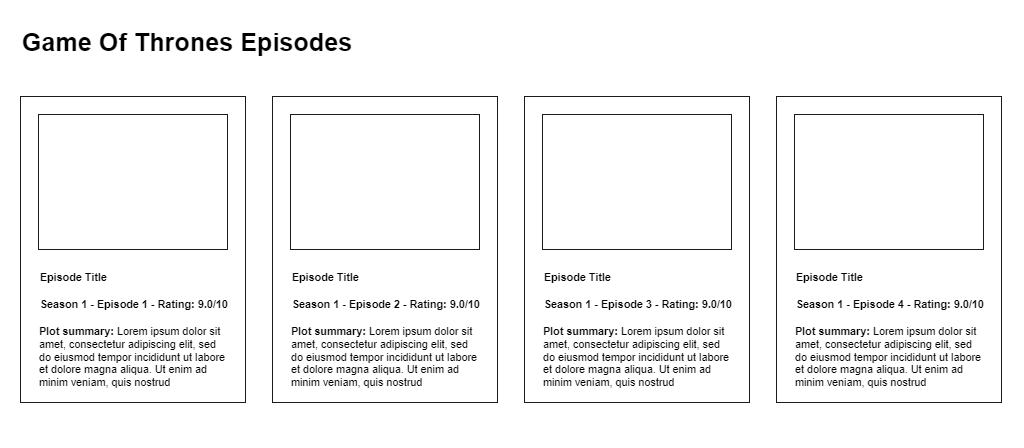
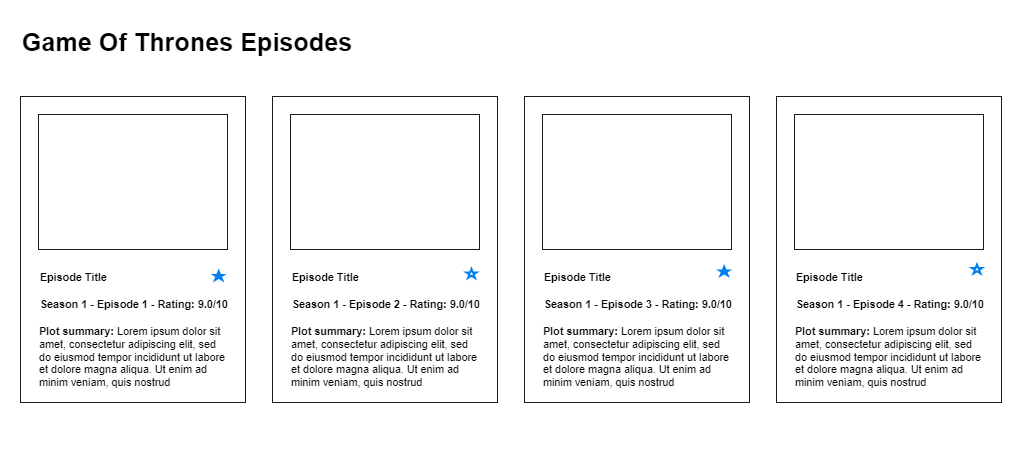
Updated the task to include local storage save of favourites

diff --git a/developer-omdb-task.md b/developer-omdb-task.md
@@ -4,6 +4,8 @@ We at CredoWeb are massive fans of the epic Game of Throne series. Your task (sh
 
 > ![mockup](wireframe-omdb.png)
 
+We'd like to point out this is not the actual design just a wireframe to illustrate the basic view we aim.
+
 Some help for the OMDb API:
 
 * Here you can [request](http://www.omdbapi.com/apikey.aspx) a free API key to the OMDb
@@ -15,6 +17,7 @@ Some help for the OMDb API:
 * The development should be done using the [Angular Framework](https://angular.io/)
 * Should function as a [Single Page App](http://en.wikipedia.org/wiki/Single-page_application).
 * You must use HTML and CSS (using Bootstrap and pre-compilers such as Sass or LESS is fine).
+* The star icon (enabled/disabled) is used to save the current episode to the local storage
 
 If you feel like you want to show us what you're are really capable of, here is a list of potential enhancements that we have come up with. You can always go the extra mile and do not limit yourself to it if you think of any other possible feature enhancement that you want to include in your submission. 
 
